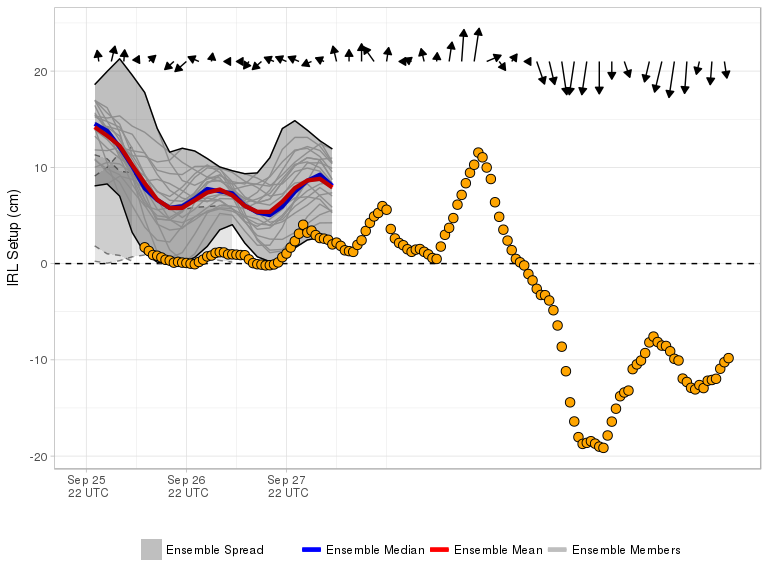
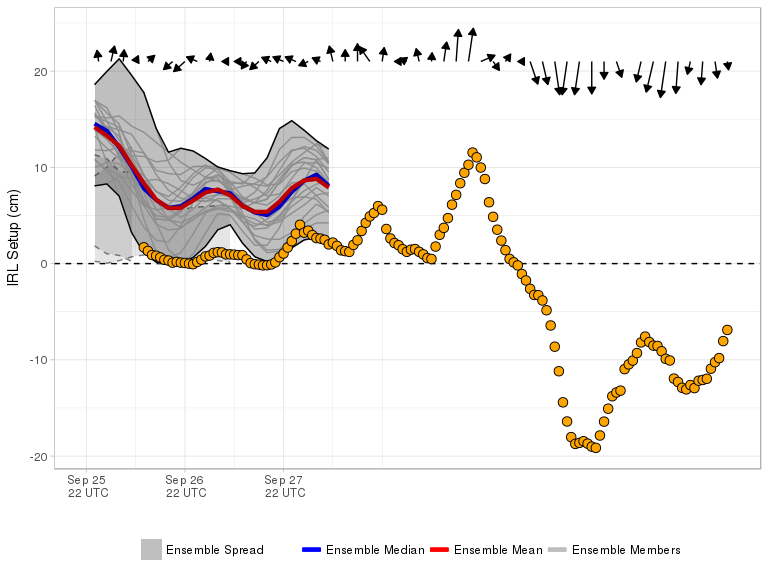
Forecast Update 2020100206

diff --git a/docs/index.md b/docs/index.md
@@ -1,9 +1,9 @@
-Current Forecast 2020-10-02 00Z
+Current Forecast 2020-10-02 06Z
 -----------------------------------
 
 [![](img/raw_setup.png)](https://fit-winds.github.io/IRLSetup/img/raw_setup.png)
 
-> Forecast valid 2020-10-02 04:24:51.
+> Forecast valid 2020-10-02 06:58:52.
 
 Explanation
 -----------
